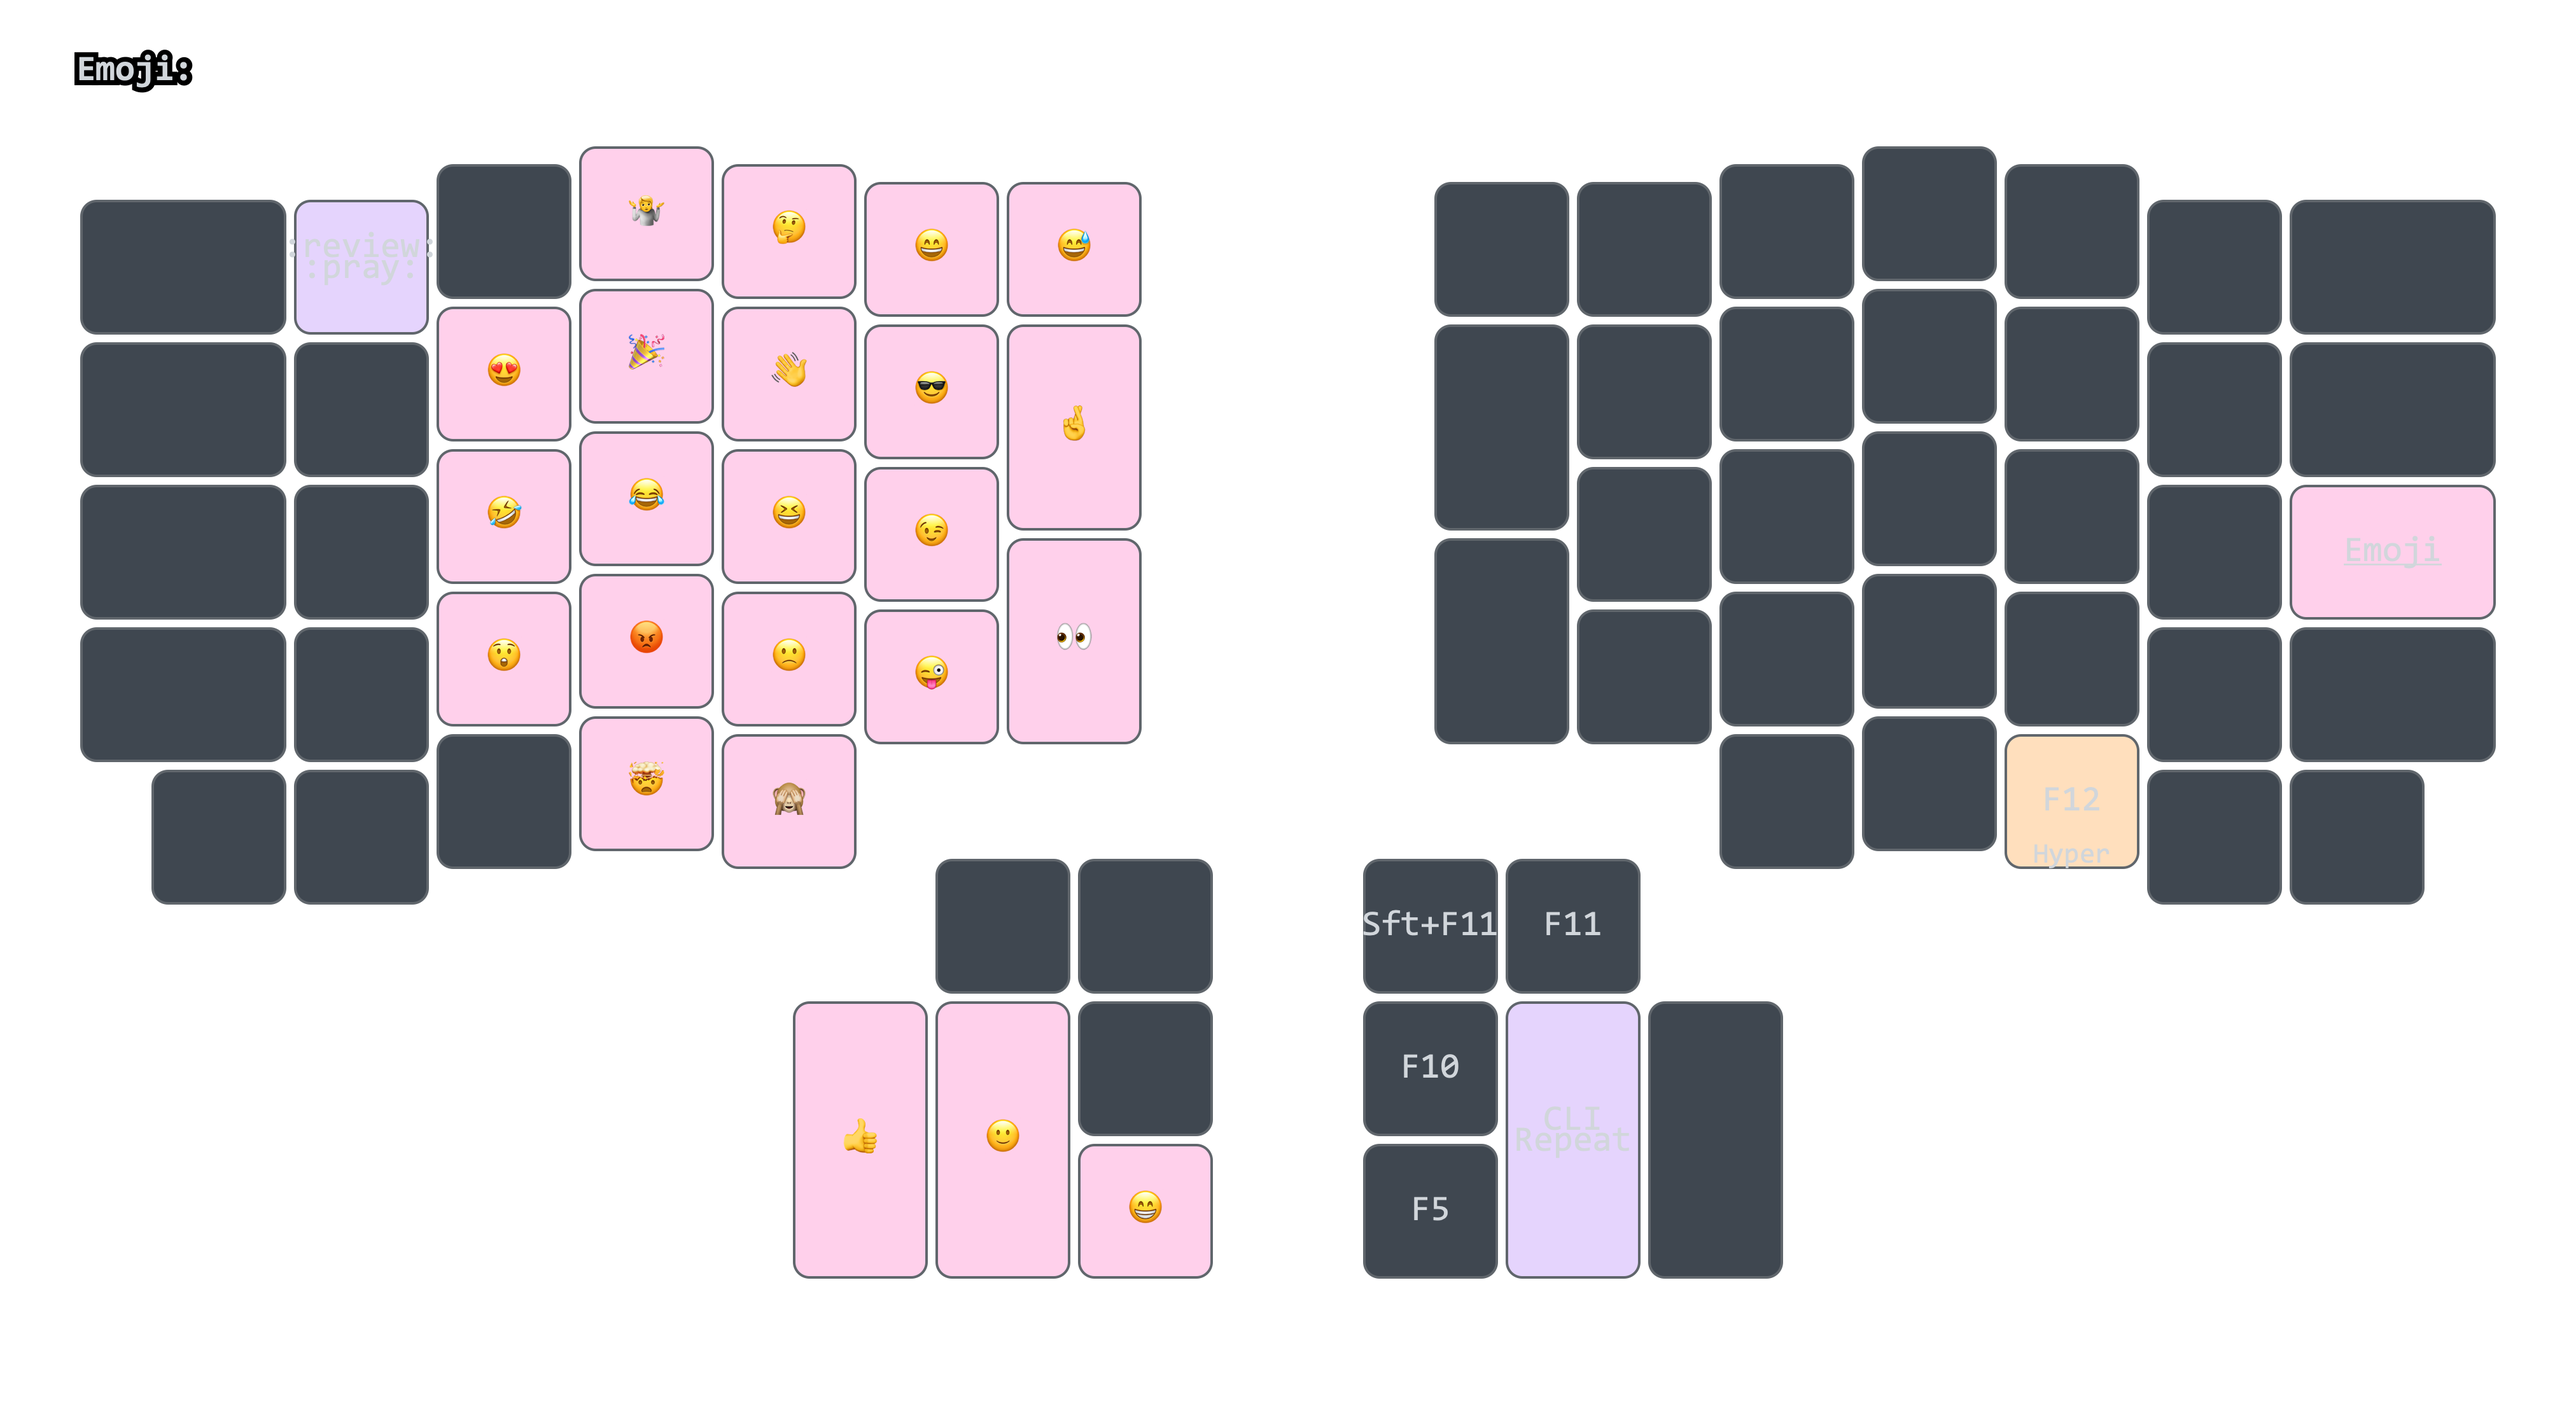
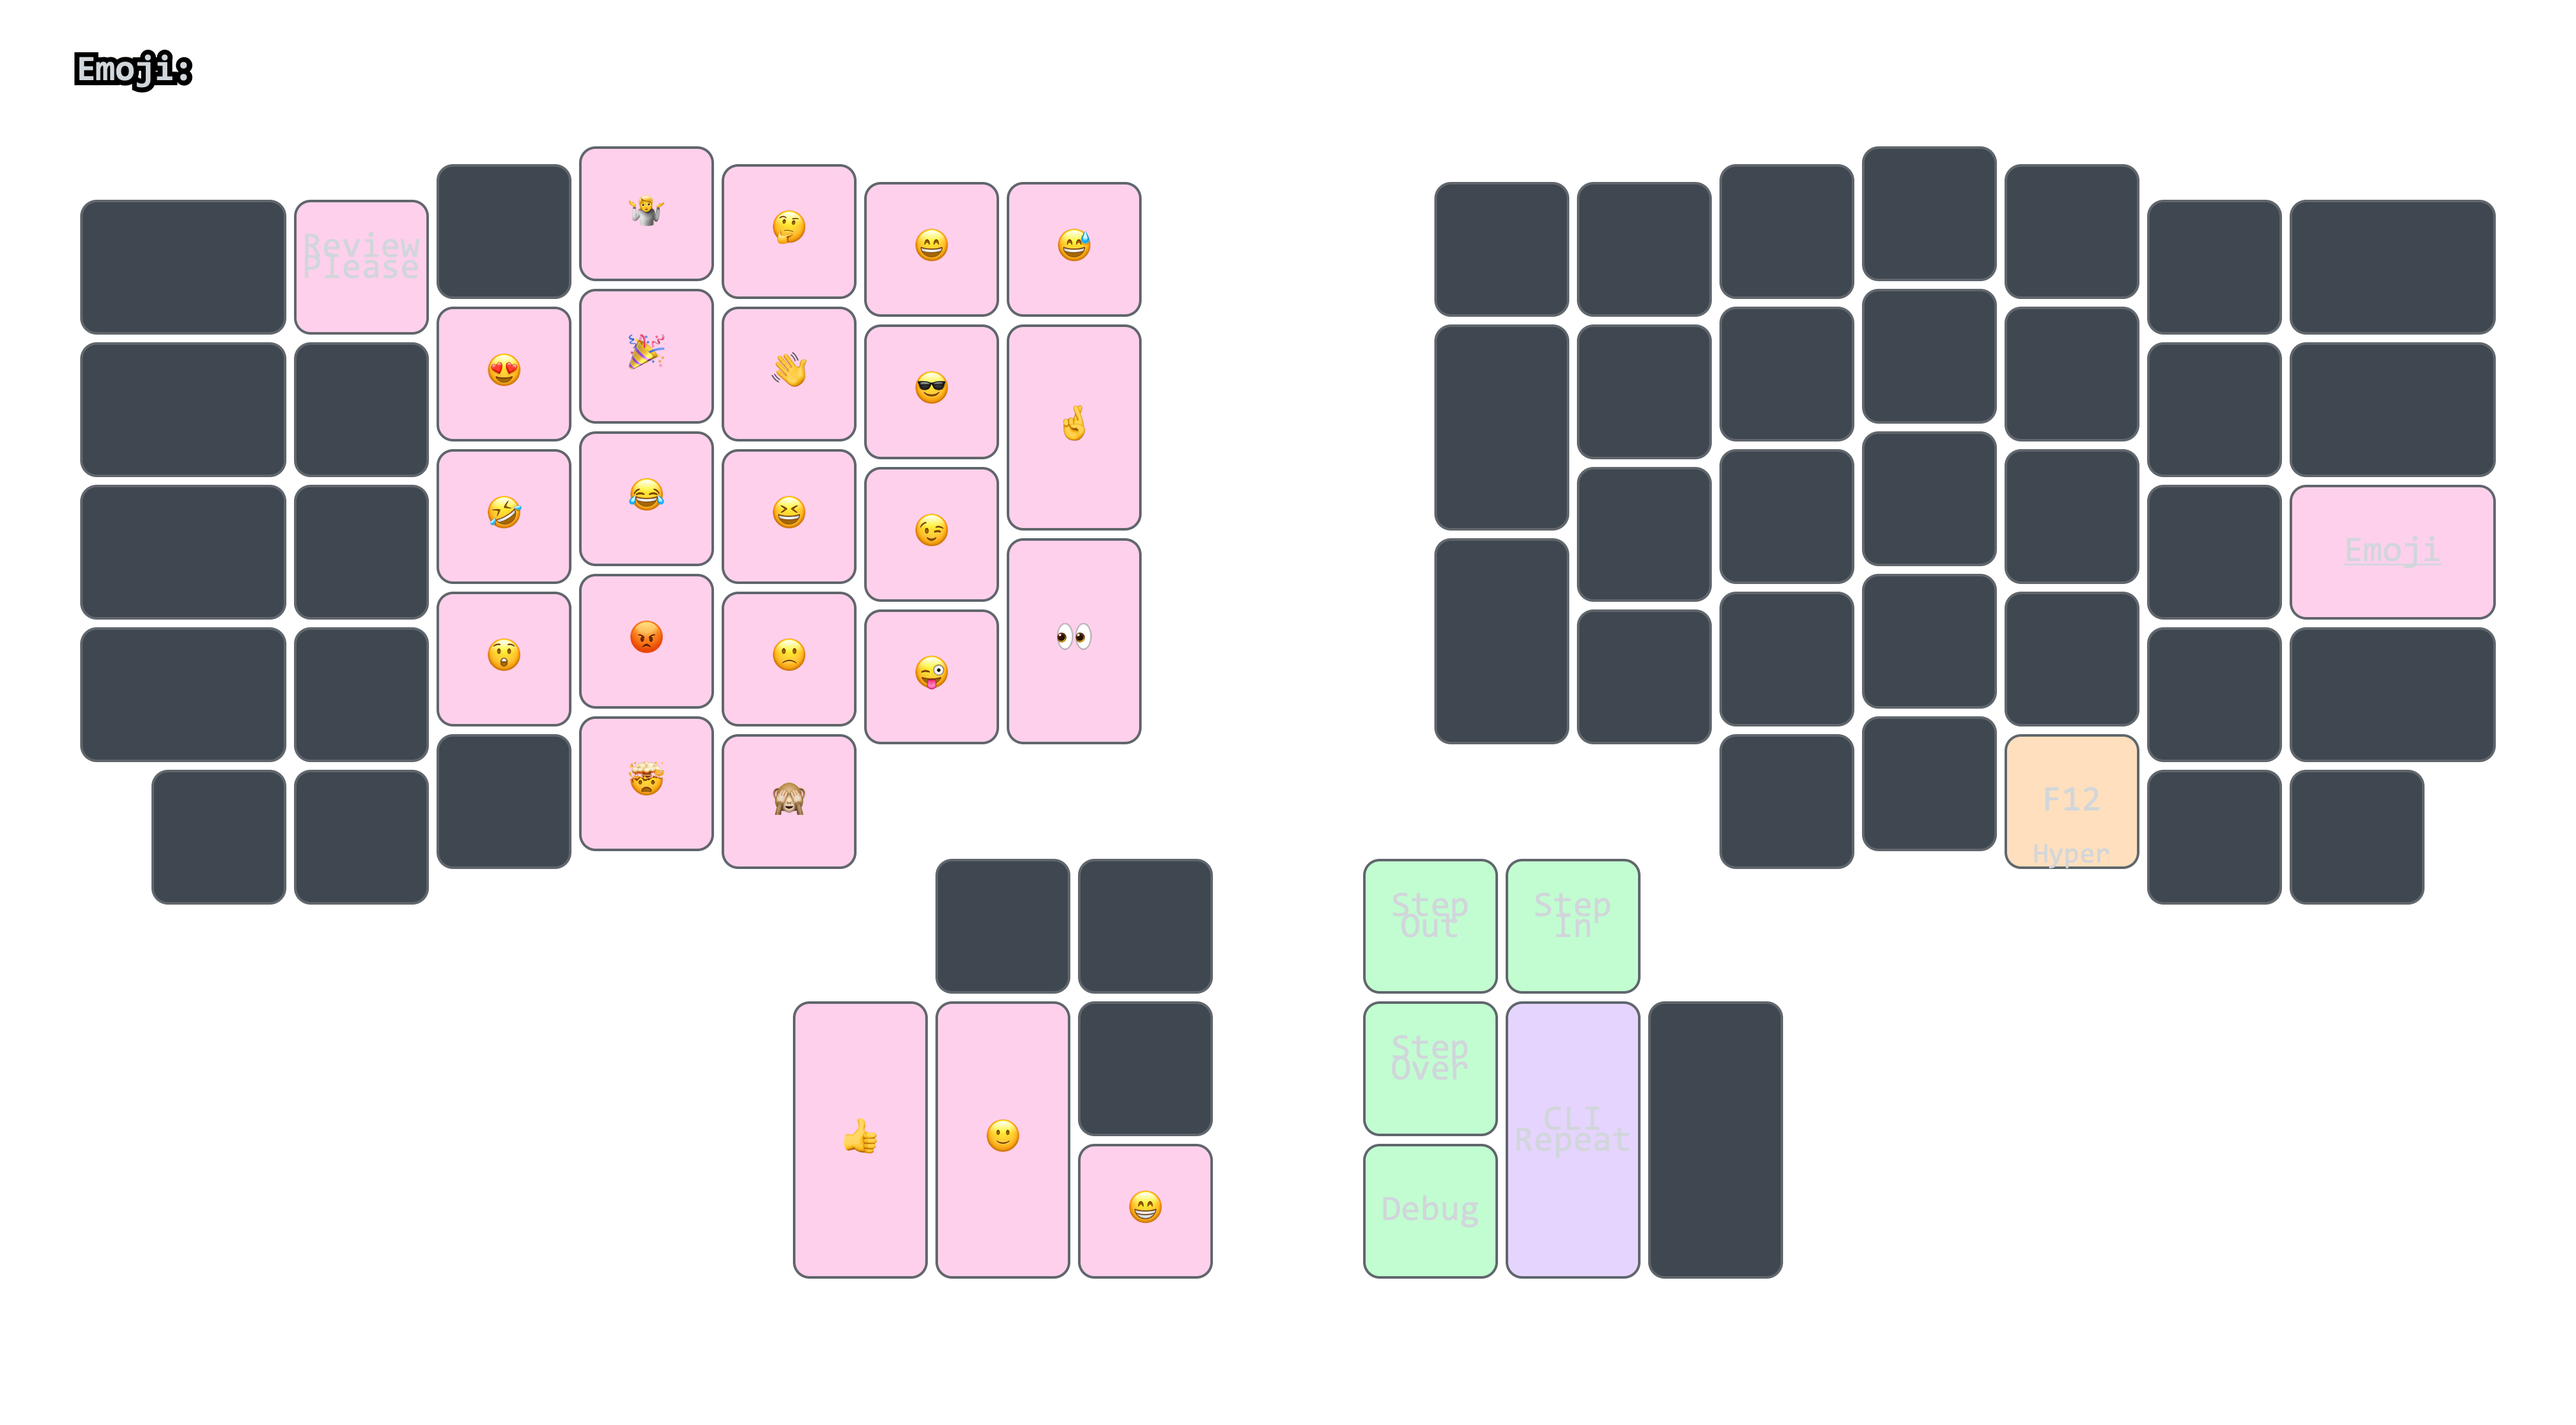
tidy up images

Changed region(s): [[0.5292, 0.5938, 0.6537, 0.9062], [0.0934, 0.125, 0.1868, 0.25]]

diff --git a/tools/gen_layer_images.py b/tools/gen_layer_images.py
@@ -261,6 +261,51 @@ def resolve_transparent_keys(yaml_path: Path) -> None:
     yaml_path.write_text(yaml.safe_dump(data, sort_keys=False, allow_unicode=True))
 
 
+# Per-layer label overrides applied after parsing. keymap-drawer's
+# raw_binding_map is global, but some keys (e.g. KC_F5) mean different things
+# on different layers — on layer 2 (Emoji) they're VS Code debugger shortcuts.
+# Maps layer name -> { existing tap label : (replacement label, optional type) }.
+LAYER_LABEL_OVERRIDES: dict[str, dict[str, tuple[str, str | None]]] = {
+    "Emoji": {
+        "F5": ("Debug", "debug"),
+        "F10": ("Step Over", "debug"),
+        "F11": ("Step In", "debug"),
+        "⇧ F11": ("Step Out", "debug"),
+        "Sft+F11": ("Step Out", "debug"),
+    },
+}
+
+
+def apply_layer_label_overrides(yaml_path: Path) -> None:
+    """Rewrite specific tap labels on specific layers (see LAYER_LABEL_OVERRIDES)."""
+    if not LAYER_LABEL_OVERRIDES:
+        return
+    import yaml
+
+    data = yaml.safe_load(yaml_path.read_text())
+    layers = data.get("layers") or {}
+    for layer_name, overrides in LAYER_LABEL_OVERRIDES.items():
+        keys = layers.get(layer_name)
+        if not keys:
+            continue
+        for i, key in enumerate(keys):
+            if isinstance(key, str):
+                if key in overrides:
+                    new_t, new_type = overrides[key]
+                    rep: dict = {"t": new_t}
+                    if new_type:
+                        rep["type"] = new_type
+                    keys[i] = rep
+            elif isinstance(key, dict):
+                t = key.get("t")
+                if t in overrides:
+                    new_t, new_type = overrides[t]
+                    key["t"] = new_t
+                    if new_type:
+                        key["type"] = new_type
+    yaml_path.write_text(yaml.safe_dump(data, sort_keys=False, allow_unicode=True))
+
+
 # ─────────────────────────────────────────────────────────────────────────────
 # Pipeline
 # ─────────────────────────────────────────────────────────────────────────────
@@ -310,6 +355,9 @@ def generate(out_dir: Path) -> None:
         # 3b. Resolve transparent keys to the base-layer binding so that higher
         #     layers show what each position actually does instead of "▽".
         resolve_transparent_keys(keymap_yaml)
+
+        # 3c. Apply per-layer label overrides (e.g. F5 -> "Debug" on Emoji).
+        apply_layer_label_overrides(keymap_yaml)
 
         # 4. Render one SVG per layer.
         for i, name in enumerate(LAYER_NAMES):
